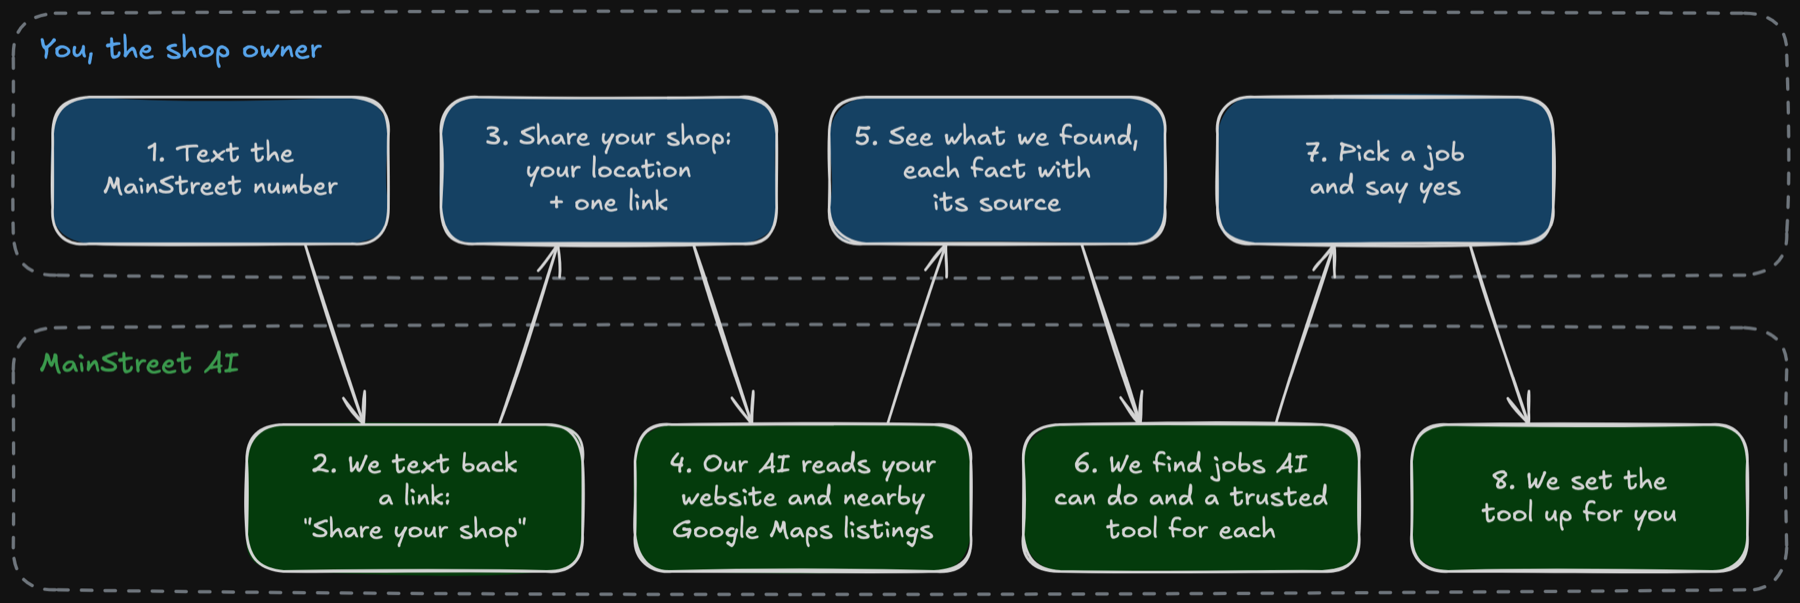
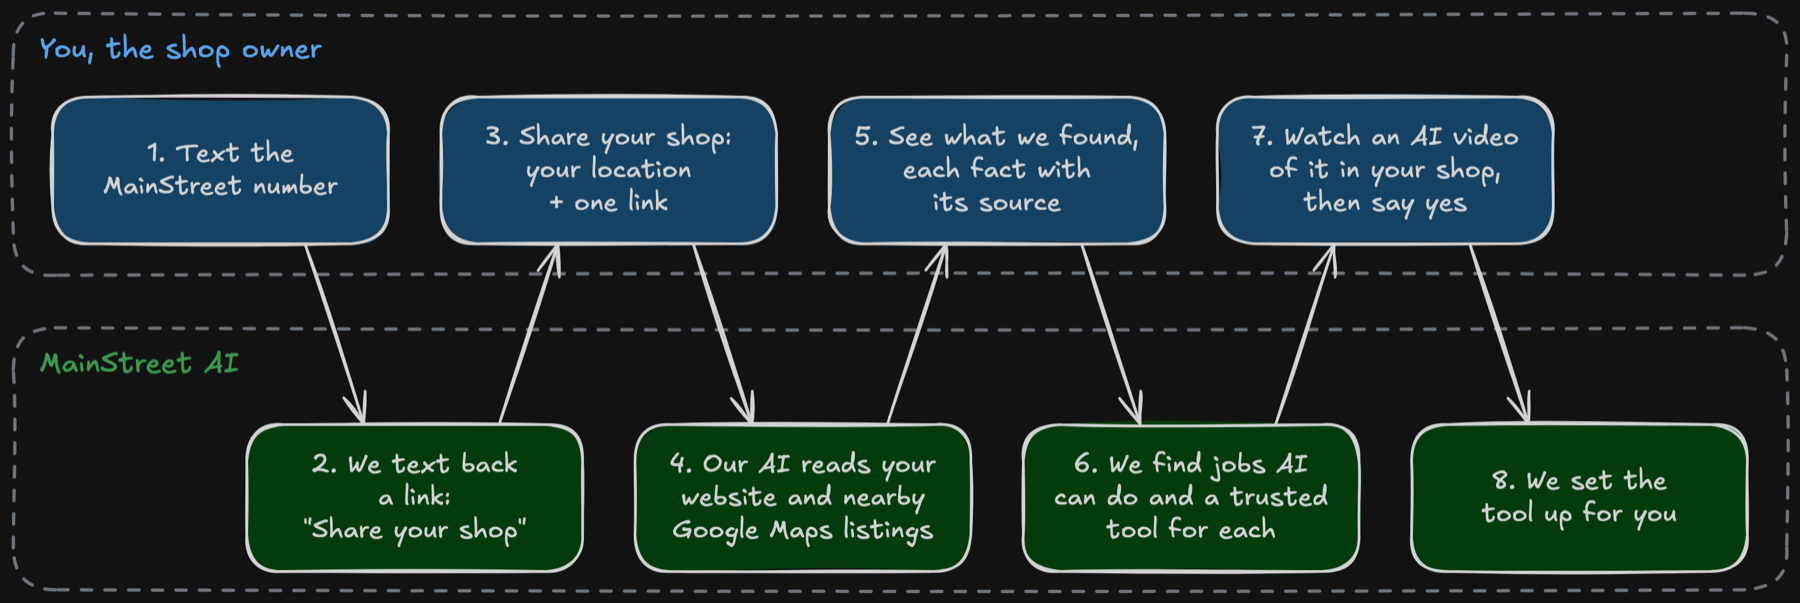
README: preview videos (Veo 3.1 Lite via OpenRouter) with a salon clip; chart step 7 shows the preview

diff --git a/README.md b/README.md
@@ -14,7 +14,7 @@ Built for the UMD AI for Small Business Hack-a-thon, Fall 2026.
 
 <picture>
   <source media="(prefers-color-scheme: dark)" srcset="docs/assets/how-it-works-dark.png">
-  <img src="docs/assets/how-it-works-light.png" alt="Flowchart in two lanes. You, the shop owner: 1 text the MainStreet number, 3 share your location and one link, 5 see what we found with each fact's source, 7 pick a job and say yes. MainStreet AI: 2 texts back a Share your shop link, 4 reads your website and nearby Google Maps listings, 6 finds jobs AI can do and a trusted tool for each, 8 sets the tool up for you.">
+  <img src="docs/assets/how-it-works-light.png" alt="Flowchart in two lanes. You, the shop owner: 1 text the MainStreet number, 3 share your location and one link, 5 see what we found with each fact's source, 7 watch an AI video of the tool in your shop, then say yes. MainStreet AI: 2 texts back a Share your shop link, 4 reads your website and nearby Google Maps listings, 6 finds jobs AI can do and a trusted tool for each, 8 sets the tool up for you.">
 </picture>
 
 Under the hood:
@@ -25,6 +25,16 @@ Under the hood:
 - **Nothing is set up without a yes.** Each job gets one vetted pick with a trust score, and setup waits for the owner's approval.
 
 The chart's source is [`docs/assets/how-it-works.excalidraw`](docs/assets/how-it-works.excalidraw); open it at excalidraw.com to edit.
+
+## Preview videos
+
+Before saying yes, the owner can see the tool at work in a shop like theirs. The agent writes one scene from the shop's profile, and the `preview` tool renders it as a 6-second clip with Google Veo 3.1 Lite through OpenRouter's video API (720p, no audio, about $0.05 a second). The clip plays on the job card, labelled "AI-generated preview", and arrives inline in iMessage.
+
+<p align="center">
+  <img src="docs/assets/preview-salon.gif" width="480" alt="AI-generated preview for a salon: a client books a haircut on her phone at night; next morning the stylist sees the day's schedule on a tablet at the front desk">
+</p>
+
+The salon's prompt: *a client books a haircut on her phone at night; next morning the owner sees the day's schedule on a tablet at the front desk, warm natural light, documentary style, no logos.* Clips are cached per tool and capped at 2 per owner, 10 a day and $20 in total.
 
 ## Layout
 
